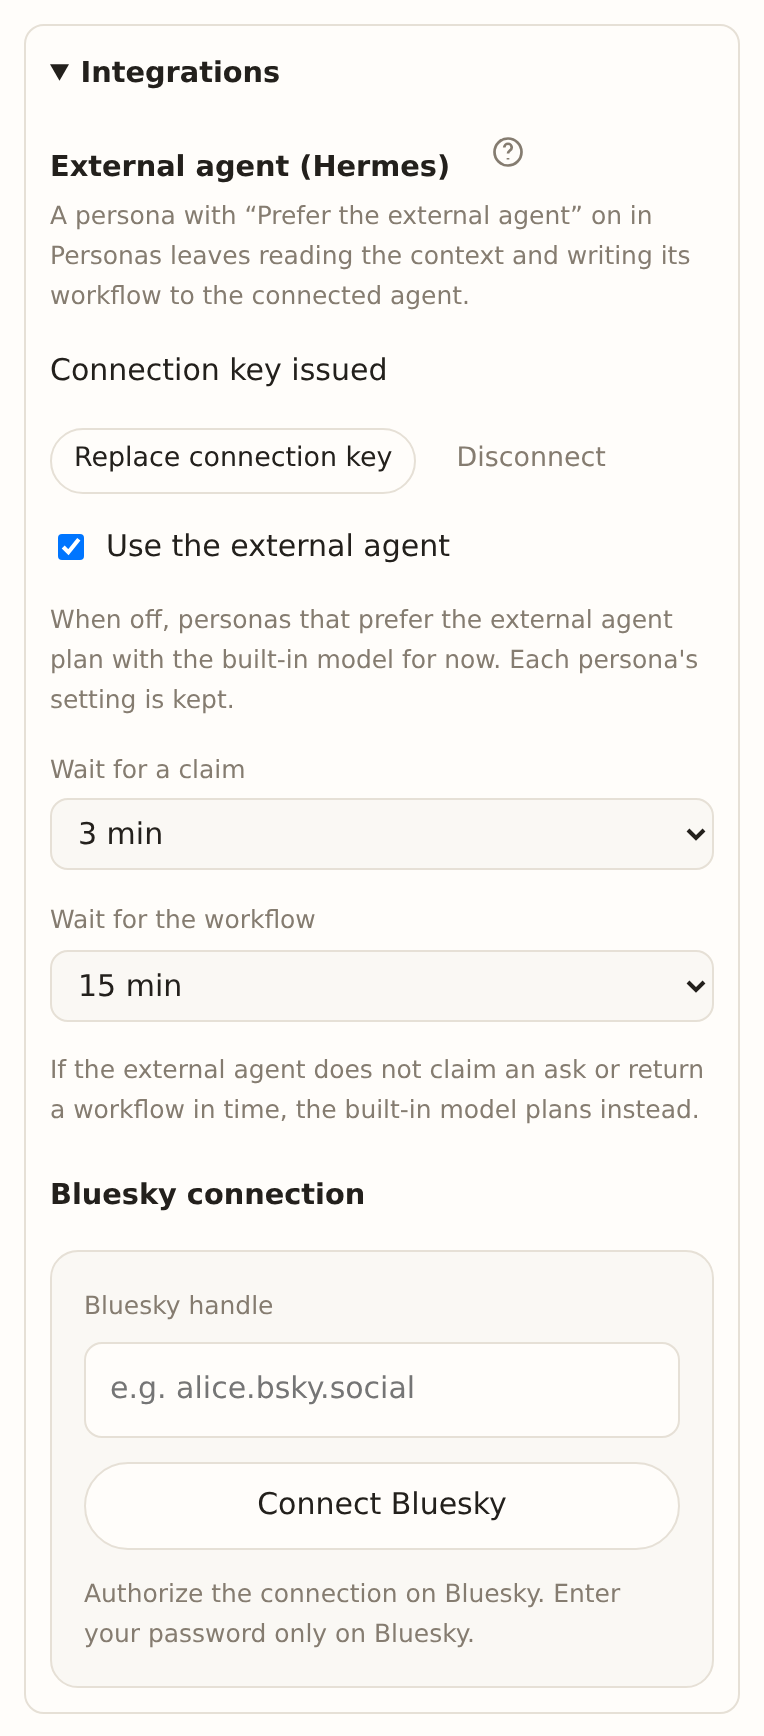
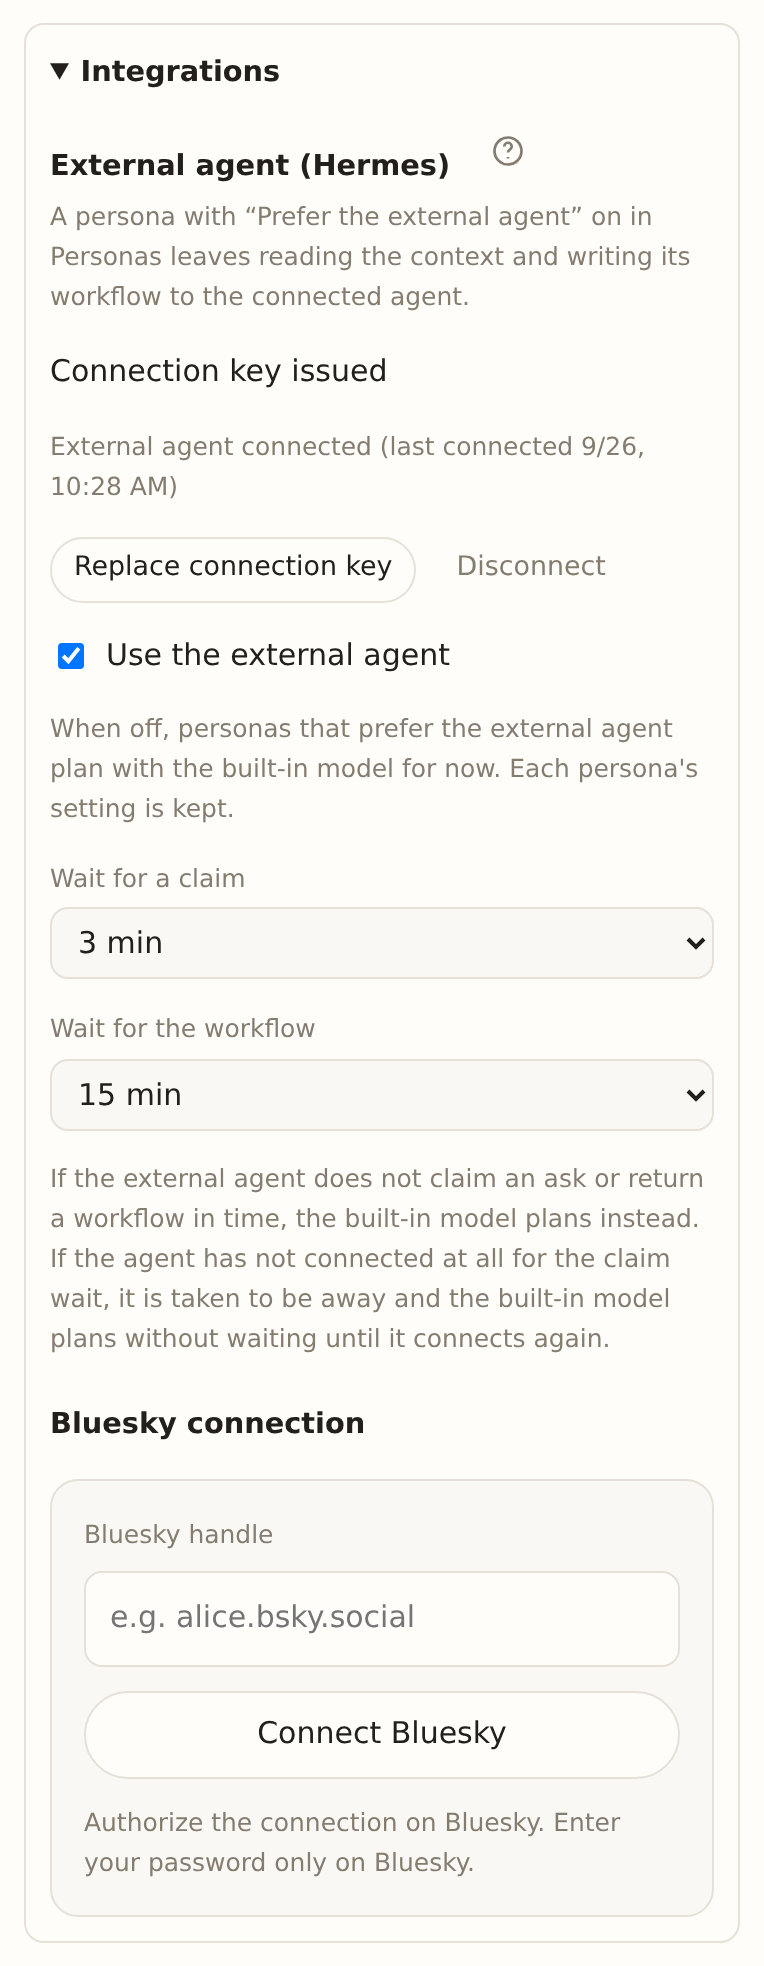
Set the external agent aside while it is not calling in
Every authenticated MCP call - the Wake Gate's list every minute
included - marks the external agent as there. If none has arrived for
the claim wait (3 minutes by default), the agent is taken to be away:
personas that prefer it plan in-process at once, without opening an
ask nobody will claim. It comes back by itself on its next call. A
manual pause still wins, and right after a restart the agent counts as
away until it first calls.

Integrations shows whether the agent is connected and when it last
called, and persona cards say when the built-in model is standing in.
Docs note that the Hermes cron interval must stay under the claim
wait; the distributed skill says so too and moves to version 5.

Changed region(s): [[0.0602, 0.0311, 0.9332, 0.9954], [0.6021, 0.2177, 0.7827, 0.3111], [0.7827, 0.2177, 0.8429, 0.2488]]

diff --git a/frontend/manual/index.html b/frontend/manual/index.html
@@ -395,7 +395,7 @@
         <section id="ja-hermes">
           <h2>5. 担当の考える役をHermesにする</h2>
           <p>担当ごとに「外部エージェントを優先する」を選べます。ONにした担当は、投稿やチェックインで起きたとき、文脈を読んで次に何をするか（workflow）を考える部分を自分の Hermes に任せます。kakeratta はその workflow を確認してから、担当として実行します（メモ・予定・発言）。Hermes をまだ入れていない場合は、先に <a href="https://github.com/takeshy/kakeratta/blob/main/docs/hermes_ja.md" rel="noopener">Hermes連携の手引き</a> を見てください。</p>
-          <figure><img src="/captures/ja/hermes-settings.png" alt="外部連携のHermes設定とマニュアルへのヘルプアイコン" loading="lazy" width="382" height="888" /></figure>
+          <figure><img src="/captures/ja/hermes-settings.png" alt="外部連携のHermes設定とマニュアルへのヘルプアイコン" loading="lazy" width="382" height="963" /></figure>
           <h3>つなぐ</h3>
           <ol>
             <li><strong>設定 → 上級オプション → 外部連携 → 外部エージェント連携（Hermes）</strong> で <strong>接続キーを発行</strong> し、表示された設定をコピーします。キーを確認できるのは発行直後だけです。</li>
@@ -413,7 +413,7 @@
             <li><strong>担当</strong> 画面で、任せたい担当の <strong>外部エージェントを優先する</strong> をONにします。このチェックは接続キーを発行したあとにだけ表示されます。</li>
             <li>いつもどおり投稿します。その担当に届いた投稿は Hermes が考え、返事は担当の名前で「外部エージェント」の印付きで届きます。</li>
           </ol>
-          <p>Hermes が3分以内に取りに来ない、または15分以内に workflow を返さないときは、内蔵モデルが代わりに考えます。時間は <strong>外部連携</strong> で変えられます。同じ場所の <strong>外部エージェントを使う</strong> をOFFにすると、担当ごとの設定を残したまま一時的に内蔵モデルで考えます。試し直しは常に内蔵モデルで行います。</p>
+          <p>Hermes が3分以内に取りに来ない、または15分以内に workflow を返さないときは、内蔵モデルが代わりに考えます。取得を待つ時間のあいだ Hermes から一度も接続がなければ応答なしとみなし、次に接続があるまで待たずに内蔵モデルが考えます。時間は <strong>外部連携</strong> で変えられます。同じ場所の <strong>外部エージェントを使う</strong> をOFFにすると、担当ごとの設定を残したまま一時的に内蔵モデルで考えます。試し直しは常に内蔵モデルで行います。</p>
           <h3>Hermes が読めるもの</h3>
           <p>Hermes は、あなたの投稿と <strong>すべての担当のメモ</strong> を読めます。自分で投稿したりメモを書いたりはできず、書き込みはすべて kakeratta が確認した workflow を通ります。モデル設定や他の利用者のデータには触れません。<strong>連携を解除</strong> で接続キーが無効になります。</p>
           <h3>つながらないとき</h3>
@@ -866,7 +866,7 @@
         <section id="en-hermes">
           <h2>5. Let Hermes plan for a persona</h2>
           <p>Each persona can prefer the external agent. A persona with <strong>Prefer the external agent</strong> on hands the thinking part of its turn — reading the context and deciding what to do next (the workflow) — to your own Hermes, whether it woke for a post or a check-in. kakeratta checks that workflow and then runs it as the persona (notes, schedules, remarks). If you have not installed Hermes yet, start with the <a href="https://github.com/takeshy/kakeratta/blob/main/docs/hermes.md" rel="noopener">Hermes integration guide</a>.</p>
-          <figure><img src="/captures/en/hermes-settings.png" alt="Hermes integration settings and the manual help icon" loading="lazy" width="382" height="868" /></figure>
+          <figure><img src="/captures/en/hermes-settings.png" alt="Hermes integration settings and the manual help icon" loading="lazy" width="382" height="983" /></figure>
           <h3>Connect</h3>
           <ol>
             <li>Under <strong>Settings → Advanced options → Integrations → External agent (Hermes)</strong>, press <strong>Create connection key</strong> and copy the configuration. The key is shown only then.</li>
@@ -884,7 +884,7 @@
             <li>In <strong>Personas</strong>, turn on <strong>Prefer the external agent</strong> for the persona. The checkbox appears only after a connection key has been issued.</li>
             <li>Post as usual. Hermes plans what that persona does with it; the reply arrives under the persona's name, marked <strong>External agent</strong>.</li>
           </ol>
-          <p>If Hermes does not pick it up within 3 minutes, or does not return a workflow within 15 minutes, the built-in model plans instead. Change the waits under <strong>Integrations</strong>; turning off <strong>Use the external agent</strong> there pauses it while keeping each persona's choice. <strong>Try again</strong> always uses the built-in model.</p>
+          <p>If Hermes does not pick it up within 3 minutes, or does not return a workflow within 15 minutes, the built-in model plans instead. If Hermes has not connected at all for the claim wait, it is taken to be away and the built-in model plans without waiting until it connects again. Change the waits under <strong>Integrations</strong>; turning off <strong>Use the external agent</strong> there pauses it while keeping each persona's choice. <strong>Try again</strong> always uses the built-in model.</p>
           <h3>What Hermes can read</h3>
           <p>Hermes can read your posts and <strong>the notes of every persona</strong>. It cannot post or write notes itself: every write goes through a workflow kakeratta has checked. It cannot reach model settings or other users. <strong>Disconnect</strong> invalidates the key.</p>
           <h3>If it cannot connect</h3>

diff --git a/frontend/src/i18n.js b/frontend/src/i18n.js
@@ -18,7 +18,11 @@ const EN = {
  "取得後、workflow を待つ時間": "Wait for the workflow",
  "{0}分": "{0} min",
  "外部エージェントは一時停止中です。再開するまで内蔵モデルが考えます。": "The external agent is paused. The built-in model plans until it is resumed.",
- "時間内に外部エージェントが取得しない、または workflow を返さない場合は、内蔵モデルが代わりに考えます。": "If the external agent does not claim an ask or return a workflow in time, the built-in model plans instead.",
+ "時間内に外部エージェントが取得しない、または workflow を返さない場合は、内蔵モデルが代わりに考えます。取得を待つ時間のあいだ一度も接続がなければ応答なしとみなし、次に接続があるまで待たずに内蔵モデルが考えます。": "If the external agent does not claim an ask or return a workflow in time, the built-in model plans instead. If the agent has not connected at all for the claim wait, it is taken to be away and the built-in model plans without waiting until it connects again.",
+ "外部エージェントから応答がありません（最終接続 {0}）。接続があるまで内蔵モデルが考えます。": "The external agent is not responding (last connected {0}). The built-in model plans until it connects again.",
+ "外部エージェントからまだ接続がありません。接続があるまで内蔵モデルが考えます。": "The external agent has not connected yet. The built-in model plans until it does.",
+ "外部エージェント接続中（最終接続 {0}）": "External agent connected (last connected {0})",
+ "外部エージェントから応答がありません。接続があるまで内蔵モデルが考えます。": "The external agent is not responding. The built-in model plans until it connects again.",
  "外部エージェントが考えた workflow で答えました": "Answered with a workflow planned by the external agent",
  "接続キーを含む設定です。第三者に共有しないでください。再発行すると以前のキーは無効になります。": "This configuration contains your connection key. Keep it private. Replacing the key invalidates the old one.",
  "接続キー発行済み": "Connection key issued",

diff --git a/frontend/src/mcp-connection.js b/frontend/src/mcp-connection.js
@@ -2,6 +2,20 @@ import { el, clear } from "./dom.js";
 import { api } from "./api.js";
 import { getLanguage, t } from "./i18n.js";
 
+// Whether the agent is calling in. It is set aside by itself after going quiet
+// for the claim wait, and comes back the moment it calls in again.
+function agentLine(agent) {
+  if (!agent) return null;
+  const seen = agent.lastSeen ? new Date(agent.lastSeen) : null;
+  const when = seen ? seen.toLocaleString(getLanguage() === "ja" ? "ja-JP" : "en-US", { month: "numeric", day: "numeric", hour: "2-digit", minute: "2-digit" }) : "";
+  if (agent.away) {
+    return el("p", { class: "hint warn", text: seen
+      ? t("外部エージェントから応答がありません（最終接続 {0}）。接続があるまで内蔵モデルが考えます。", when)
+      : t("外部エージェントからまだ接続がありません。接続があるまで内蔵モデルが考えます。") });
+  }
+  return el("p", { class: "hint", text: t("外部エージェント接続中（最終接続 {0}）", when) });
+}
+
 export function createMCPConnection({ onChange, onState } = {}) {
   const view = el("section");
   let connection = null, key = "", busy = false, error = "";
@@ -17,6 +31,7 @@ export function createMCPConnection({ onChange, onState } = {}) {
         })),
       el("p", { class: "hint", label: "担当画面で「外部エージェントを優先する」をONにした担当は、文脈の読み取りと workflow づくりを接続したエージェントに任せます。" }),
       el("p", { text: connection ? t(connection.configured ? "接続キー発行済み" : "未設定") : t("読み込み中…") }),
+      ...[connection?.configured ? agentLine(connection.agent) : null].filter(Boolean),
       el("p", { role: "alert", text: error }),
     );
     const act = async (action) => {

diff --git a/frontend/src/personas.js b/frontend/src/personas.js
@@ -38,6 +38,7 @@ export function createPersonas({ onChange, onSearch, getSettings }) {
   let toolNames = [];
   let mcpConfigured = false;
   let agentPaused = false;
+  let agentAway = false;
 
   async function load({ quiet = false } = {}) {
     try {
@@ -46,6 +47,7 @@ export function createPersonas({ onChange, onSearch, getSettings }) {
       toolNames = payload.tools || [];
       mcpConfigured = !!payload.mcpConfigured;
       agentPaused = !!payload.externalAgentPaused;
+      agentAway = !!payload.externalAgentAway;
       onChange?.(rows);
       draw();
     } catch (error) {
@@ -146,6 +148,8 @@ export function createPersonas({ onChange, onSearch, getSettings }) {
         ? "外部エージェントが未接続です。設定 → 上級オプション → 外部連携 で接続してください。それまでは内蔵モデルが代わりに考えます。"
         : agentPaused
         ? "外部エージェントは一時停止中です。再開するまで内蔵モデルが考えます。"
+        : agentAway
+        ? "外部エージェントから応答がありません。接続があるまで内蔵モデルが考えます。"
         : "外部エージェントが文脈を読み、次にすることを workflow にします。時間内に取得・返却されなければ内蔵モデルが代わりに考えます。" }));
     }
     return box;

diff --git a/tests/external-agent.test.js b/tests/external-agent.test.js
@@ -125,3 +125,15 @@ test("the check-in always runs; the checkbox only chooses how much it says", asy
   assert.equal(saved[0].talk, "share");
   assert.equal(saved[0].enabled, true, "the check-in itself stays on");
 });
+
+test("the connection says whether the agent is calling in", async t => {
+  const { createMCPConnection } = await import("../frontend/src/mcp-connection.js");
+  globalThis.Node = Element;
+  globalThis.document = { createElement: tag => new Element(tag), createTextNode: text => Object.assign(new Element("text"), { textContent: text }) };
+  globalThis.location = { origin: "https://kakeratta.net" };
+  t.after(() => { delete globalThis.Node; delete globalThis.document; delete globalThis.location; });
+  t.mock.method(api, "mcpConnection", async () => ({ configured: true, path: "/api/mcp/users/xxx", agent: { away: true, lastSeen: null } }));
+  const view = createMCPConnection();
+  await view.load();
+  assert.ok(walk(view.element).some(n => n.textContent === translate("外部エージェントからまだ接続がありません。接続があるまで内蔵モデルが考えます。")));
+});

diff --git a/frontend/src/settings.js b/frontend/src/settings.js
@@ -305,7 +305,7 @@ export function createSettings({ speaker, onSettings, onMCPChange, closeAccount 
         (next) => save({ claimMinutes: Number(next) })),
       select("取得後、workflow を待つ時間", String(agent.planMinutes || 15), minutes([5, 10, 15, 30, 60, 120], agent.planMinutes || 15),
         (next) => save({ planMinutes: Number(next) })),
-      el("p", { class: "hint", label: "時間内に外部エージェントが取得しない、または workflow を返さない場合は、内蔵モデルが代わりに考えます。" }),
+      el("p", { class: "hint", label: "時間内に外部エージェントが取得しない、または workflow を返さない場合は、内蔵モデルが代わりに考えます。取得を待つ時間のあいだ一度も接続がなければ応答なしとみなし、次に接続があるまで待たずに内蔵モデルが考えます。" }),
     );
     enabled.addEventListener("change", async () => {
       enabled.disabled = true;

diff --git a/frontend/stories/Settings.stories.js b/frontend/stories/Settings.stories.js
@@ -18,5 +18,5 @@ export const InitialSetup = { name: "初回設定", render: () => panelOf({ ...s
 // Once an external agent is connected, the waits before falling back show.
 export const ExternalAgent = {
   name: "外部エージェント接続済み",
-  render: () => panelOf({ ...settings, externalAgent: { claimMinutes: 3, planMinutes: 15 } }, about, { mcp: { configured: true, path: "/api/mcp/users/sample" } }),
+  render: () => panelOf({ ...settings, externalAgent: { claimMinutes: 3, planMinutes: 15 } }, about, { mcp: { configured: true, path: "/api/mcp/users/sample", agent: { away: false, lastSeen: new Date(Date.now() - 40000).toISOString() } } }),
 };

diff --git a/internal/persona/planner_test.go b/internal/persona/planner_test.go
@@ -27,6 +27,8 @@ func externalSetup(t *testing.T, claim, plan time.Duration) (*Runner, *store.Sto
 		t.Fatal(err)
 	}
 	runner.waitsForAsk = func() (time.Duration, time.Duration) { return claim, plan }
+	// The agent has just called in, as its Wake Gate does every minute.
+	runner.AgentSeen(time.Now())
 	t.Cleanup(runner.Stop)
 	return runner, s, stub
 }
@@ -227,6 +229,7 @@ func TestACheckInIsPlannedExternallyWithoutHoldingTheQueue(t *testing.T) {
 func TestAPreviewIsPlannedInProcess(t *testing.T) {
 	settings := store.Settings{Planners: map[string]string{"gourmet": store.PlannerExternal}}
 	runner := New(nil, nil, nil)
+	runner.AgentSeen(time.Now())
 	skill := Skill{ID: "gourmet"}
 	if !runner.detaches(context.Background(), skill, settings) {
 		t.Fatal("an external planner's turn must run apart")
@@ -241,10 +244,46 @@ func TestAPausedExternalAgentPlansNothing(t *testing.T) {
 	settings := store.Settings{Planners: map[string]string{"gourmet": store.PlannerExternal}}
 	settings.ExternalAgent.Paused = true
 	runner := New(nil, nil, nil)
+	runner.AgentSeen(time.Now())
 	if runner.detaches(context.Background(), Skill{ID: "gourmet"}, settings) {
 		t.Fatal("a paused agent was handed the turn")
 	}
 	if settings.Planners["gourmet"] != store.PlannerExternal {
 		t.Fatal("the choice was lost")
+	}
+}
+
+// An agent that has not called in for the claim wait is set aside without
+// anyone switching it off, and comes back the moment it calls in again.
+func TestAQuietAgentIsSetAsideUntilItCallsIn(t *testing.T) {
+	settings := store.Settings{Planners: map[string]string{"gourmet": store.PlannerExternal}}
+	settings.ExternalAgent.ClaimMinutes = 3
+	runner := New(nil, nil, nil)
+	skill := Skill{ID: "gourmet"}
+	if !runner.AgentAway(settings) || runner.detaches(context.Background(), skill, settings) {
+		t.Fatal("an agent that never called in was handed the turn")
+	}
+	runner.AgentSeen(time.Now().Add(-4 * time.Minute))
+	if !runner.AgentAway(settings) || runner.detaches(context.Background(), skill, settings) {
+		t.Fatal("an agent silent past the claim wait was handed the turn")
+	}
+	runner.AgentSeen(time.Now().Add(-2 * time.Minute))
+	if runner.AgentAway(settings) || !runner.detaches(context.Background(), skill, settings) {
+		t.Fatal("an agent that called in within the claim wait was set aside")
+	}
+}
+
+// Nobody waits out the claim for an agent that is away: the in-process
+// planner answers at once and no ask is opened.
+func TestAnAwayAgentOpensNoAsk(t *testing.T) {
+	runner, s, _ := externalSetup(t, time.Minute, time.Minute)
+	runner.agentSeen.Store(0)
+	entry := post(t, s, "ラーメン食べた")
+	runner.react(entry.ID)
+	if remark := remarkBy(s, "gourmet"); remark == nil || remark.Text != "内蔵" {
+		t.Fatalf("remark = %+v", remark)
+	}
+	if len(runner.Asks()) != 0 {
+		t.Fatal("an ask was opened for an agent that is away")
 	}
 }

diff --git a/internal/persona/planner.go b/internal/persona/planner.go
@@ -318,20 +318,45 @@ func plannedApart(ctx context.Context) bool {
 	return v
 }
 
+// AgentSeen notes that the external agent called in over MCP. Its Wake Gate
+// calls every minute, so calling in is how the app knows it is there.
+func (r *Runner) AgentSeen(at time.Time) {
+	r.agentSeen.Store(at.UnixNano())
+}
+
+// AgentLastSeen is when the external agent last called in, or the zero time
+// if it has not since the app started.
+func (r *Runner) AgentLastSeen() time.Time {
+	seen := r.agentSeen.Load()
+	if seen == 0 {
+		return time.Time{}
+	}
+	return time.Unix(0, seen)
+}
+
+// AgentAway reports whether the external agent has gone quiet for longer than
+// the claim wait: silent that long, it would not claim an ask in time either. An agent away is set aside without anyone switching it
+// off, and comes back by itself the moment it calls in again.
+func (r *Runner) AgentAway(settings store.Settings) bool {
+	seen := r.AgentLastSeen()
+	claim, _ := r.askWaits(settings)
+	return seen.IsZero() || time.Since(seen) > claim
+}
+
 // plansExternally reports whether this turn's planning goes to the external
-// agent.
-func plansExternally(ctx context.Context, skill Skill, settings store.Settings) bool {
+// agent: the persona prefers it, it is not paused, and it is calling in.
+func (r *Runner) plansExternally(ctx context.Context, skill Skill, settings store.Settings) bool {
 	if v, _ := ctx.Value(builtinOnlyKey{}).(bool); v {
 		return false
 	}
-	return settings.PlansExternally(skill.ID)
+	return settings.PlansExternally(skill.ID) && !r.AgentAway(settings)
 }
 
 // Detaches reports whether a turn for this persona runs apart from the queue,
 // finishing later: a caller keeping track of who is still thinking must not
 // count it as done when run returns.
 func (r *Runner) detaches(ctx context.Context, skill Skill, settings store.Settings) bool {
-	return plansExternally(ctx, skill, settings) && !plannedApart(ctx)
+	return r.plansExternally(ctx, skill, settings) && !plannedApart(ctx)
 }
 
 // detach runs an externally planned turn apart from the queue. Waiting for an

diff --git a/internal/server/mcp_server.go b/internal/server/mcp_server.go
@@ -67,7 +67,21 @@ func (s *Server) mcpConnection(w http.ResponseWriter, r *http.Request) {
 		return
 	}
 	w.Header().Set("Cache-Control", "no-store")
-	writeJSON(w, 200, map[string]any{"configured": len(v.Data) > 0, "path": "/api/mcp/users/" + s.mcpWorkspace()})
+	writeJSON(w, 200, map[string]any{"configured": len(v.Data) > 0, "path": "/api/mcp/users/" + s.mcpWorkspace(), "agent": s.agentStatus()})
+}
+
+// agentStatus is whether the external agent is calling in, for the page: when
+// it last did, and whether it has gone quiet long enough to be set aside.
+func (s *Server) agentStatus() map[string]any {
+	status := map[string]any{"away": true, "lastSeen": nil}
+	if s.runner == nil {
+		return status
+	}
+	if seen := s.runner.AgentLastSeen(); !seen.IsZero() {
+		status["lastSeen"] = seen.UTC().Format(time.RFC3339)
+	}
+	status["away"] = s.runner.AgentAway(s.store.Settings())
+	return status
 }
 
 func (s *Server) issueMCPKey(w http.ResponseWriter, r *http.Request) {
@@ -154,6 +168,11 @@ func (s *Server) serveMCP(w http.ResponseWriter, r *http.Request) {
 		w.Header().Set("WWW-Authenticate", `Bearer realm="kakeratta-mcp"`)
 		fail(w, 401, "invalid MCP credential")
 		return
+	}
+	// Any authenticated call - the Wake Gate's list every minute included -
+	// is the agent saying it is there.
+	if s.runner != nil {
+		s.runner.AgentSeen(time.Now())
 	}
 	if r.Method != http.MethodPost {
 		w.Header().Set("Allow", "POST")

diff --git a/internal/persona/runner.go b/internal/persona/runner.go
@@ -10,6 +10,7 @@ import (
 	"strconv"
 	"strings"
 	"sync"
+	"sync/atomic"
 	"time"
 
 	"github.com/takeshy/kakeratta/internal/capture"
@@ -101,6 +102,9 @@ type Runner struct {
 	apart     context.Context
 	stopApart context.CancelFunc
 	detached  sync.WaitGroup
+	// agentSeen is when the external agent last called in over MCP, as Unix
+	// nanoseconds; zero until it first does after a start.
+	agentSeen atomic.Int64
 	// waitsForAsk overrides the settings' claim and plan waits, for tests.
 	waitsForAsk func() (time.Duration, time.Duration)
 }
@@ -839,7 +843,7 @@ func (r *Runner) run(ctx context.Context, skill Skill, thread []timeline.Entry, 
 		return text + readFooter(readLimit-readsUsed, set)
 	}
 
-	if plansExternally(ctx, skill, settings) {
+	if r.plansExternally(ctx, skill, settings) {
 		record.Planner = "external"
 		ask := Ask{ID: store.NewID("ask"), Persona: skill.ID, Name: skill.Name, Wake: record.Wake, Trigger: trigger.ID}
 		brief := r.askContext(skill, set, spec, system, user, wakeInstructions, record.Wake, thread, trigger, indexNote, scheduleList, names, here, deep)

diff --git a/internal/server/routes.go b/internal/server/routes.go
@@ -419,7 +419,7 @@ func (s *Server) getPersonas(w http.ResponseWriter, r *http.Request) {
 		}
 		out = append(out, row{Skill: skill, DailyCheckIn: settings.CheckInFor(skill.ID), Schedules: schedules, Active: active[skill.ID], Wakes: memory.Wakes, Planner: planner})
 	}
-	writeJSON(w, http.StatusOK, map[string]any{"personas": out, "tools": tools.New(s.tools).Names(), "mcpConfigured": len(mcp.Data) > 0, "externalAgentPaused": settings.ExternalAgent.Paused})
+	writeJSON(w, http.StatusOK, map[string]any{"personas": out, "tools": tools.New(s.tools).Names(), "mcpConfigured": len(mcp.Data) > 0, "externalAgentPaused": settings.ExternalAgent.Paused, "externalAgentAway": s.agentStatus()["away"]})
 }
 
 func (s *Server) putPersonas(w http.ResponseWriter, r *http.Request) {
